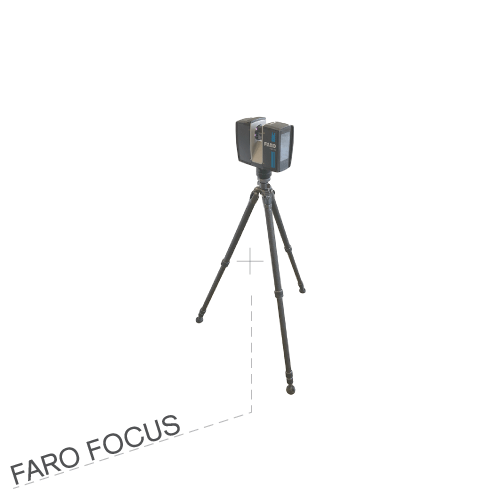
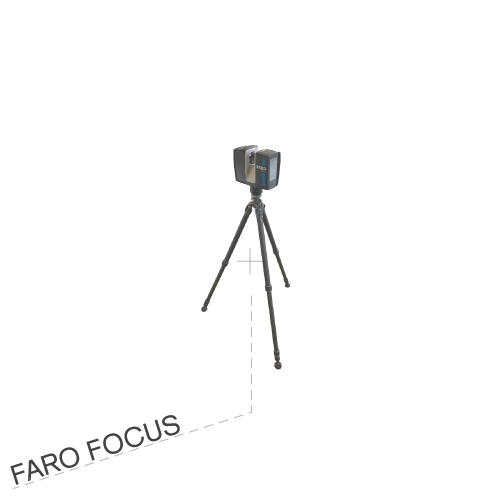
updated tech flyby images
update dji
update faro focus
add ground targets

diff --git a/floating_proj.html b/floating_proj.html
@@ -702,9 +702,9 @@ footerBar.addEventListener("click", () => {
   // fly by logic
   
 const flybyImages = {
-  0: [ 'images/flyby/djiAir2s.png', 'images/flyby/faroFocus.png' ],
-  1: [ 'images/flyby/djiAir2s.png', 'images/flyby/faroFocus.png' ],
-  2: [ 'images/flyby/djiAir2s.png', 'images/flyby/faroFocus.png' ]
+  0: [ 'images/flyby/djiAir2s.png', 'images/flyby/faroFocus.png', 'images/flyby/groundTargets.png' ],
+  1: [ 'images/flyby/djiAir2s.png', 'images/flyby/faroFocus.png', 'images/flyby/groundTargets.png' ],
+  2: [ 'images/flyby/djiAir2s.png', 'images/flyby/faroFocus.png', 'images/flyby/groundTargets.png' ]
 };
 
 function launchFlyby(trackIndex) {
